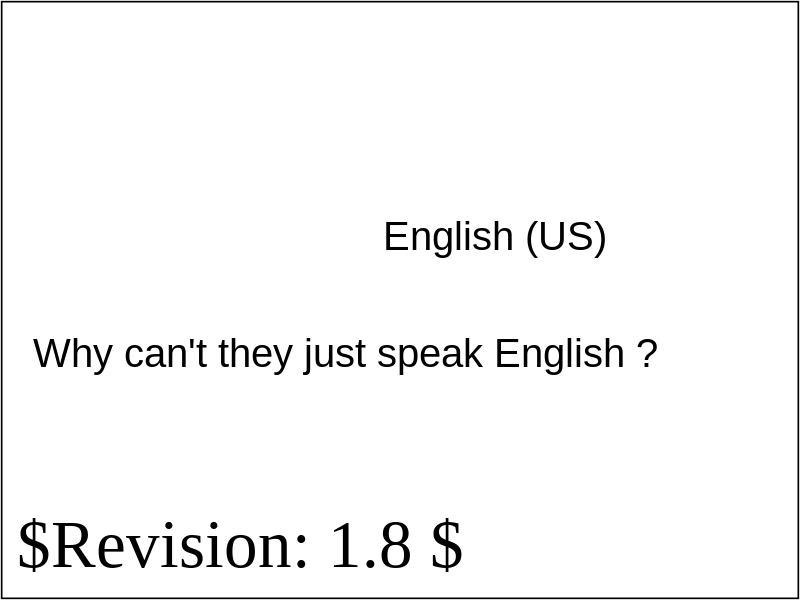
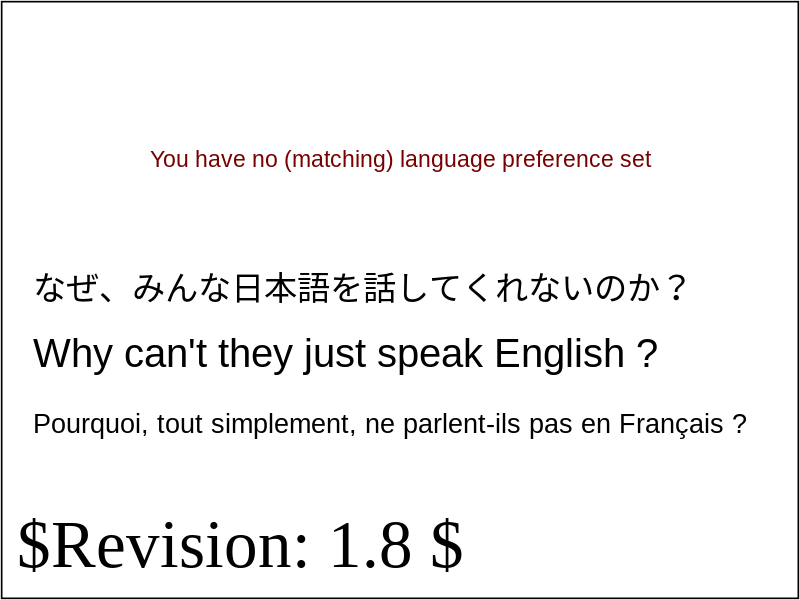
Fix SVG systemLanguage conditional processing
The algorithm that performs the test between browser language preference
and the systemLanguage value has been modified
to implement a language-tag match based on the prefix,
making it consistent with BCP 47's basic filter operation and
as specified in the SVG 1.1 spec.

The previous behavior was:

- Tests whether the value of the attribute (e.g., "en-us") is a prefix
of the user preferred language (e.g., "en")
(which would evaluate to false)

The test was modified to compare in the opposite manner,
now user preferred language must be a prefix of the value.

- If the language tag length was not 2, the language tag
was not matched, (e.g. It did not match "en-us" to "en-us").
This check has been removed.

- The algorithm did not check for a trailing hyphen ("-").
We do not want langtag "it" matching langtag "ita",
but it is ok for "it" to match "it-it".
Now it does.

------------

The algorithm that performs the test between browser language preference
and the systemLanguage value has been modified
to implement a case insensitive language-tag match:

"en" matches "EN".

The previous behavior was case sensitive.

------------

Add Luca Di Domenico to AUTHORS

------------

Bug: 872378, 869440
Cq-Include-Trybots: luci.chromium.try:linux_layout_tests_slimming_paint_v2;master.tryserver.blink:linux_trusty_blink_rel
Commit-Queue: Fredrik Söderquist <fs@opera.com>
Cr-Commit-Position: refs/heads/master@{#587592}

diff --git a/.upstream-WebKit/LayoutTests/svg/dom/systemLanguage-langtag-match-prefix.html b/.upstream-WebKit/LayoutTests/svg/dom/systemLanguage-langtag-match-prefix.html
@@ -1,0 +1,34 @@
+<!DOCTYPE HTML>
+<title>The "systemLanguage" match the langtag of which the user's preferred language is prefix </title>
+<link rel="help" href="https://www.w3.org/TR/SVG2/struct.html#ConditionalProcessingSystemLanguageAttribute">
+<script src="../../resources/testharness.js"></script>
+<script src="../../resources/testharnessreport.js"></script>
+<svg id="mysvg">
+</svg>
+<script>
+test(() => {
+
+	internals.setUserPreferredLanguages(["en"]);
+
+	var text1 = document.createElementNS('http://www.w3.org/2000/svg', 'text');
+	text1.setAttribute('systemLanguage', 'en-US');
+	text1.textContent = 'English-US';
+
+	var mysvg = document.getElementById("mysvg");
+	mysvg.appendChild(text1);
+
+	assert_greater_than(text1.getBoundingClientRect().width, 0);
+
+	internals.setUserPreferredLanguages(["it"]);
+
+	mysvg.removeChild(text1);
+
+	text1.setAttribute('systemLanguage', 'ita');
+
+	mysvg.appendChild(text1);
+
+	assert_equals(text1.getBoundingClientRect().width, 0);
+
+});
+
+</script>

diff --git a/.upstream-WebKit/LayoutTests/svg/dom/systemLanguage-case-insensitive.html b/.upstream-WebKit/LayoutTests/svg/dom/systemLanguage-case-insensitive.html
@@ -1,0 +1,31 @@
+<!DOCTYPE HTML>
+<title>The "systemLanguage" attribute matching is case insensitive (eg. "en" matches "EN")</title>
+<link rel="help" href="https://www.w3.org/TR/SVG2/struct.html#ConditionalProcessingSystemLanguageAttribute">
+<script src="../../resources/testharness.js"></script>
+<script src="../../resources/testharnessreport.js"></script>
+<svg id="mysvg">
+</svg>
+<script>
+test(() => {
+
+	internals.setUserPreferredLanguages(["en"]);
+	var text1 = document.createElementNS('http://www.w3.org/2000/svg', 'text');
+	text1.setAttribute('systemLanguage', 'en');
+	text1.textContent = 'English-US';
+
+	var mysvg = document.getElementById("mysvg");
+	mysvg.appendChild(text1);
+
+	assert_greater_than(text1.getBoundingClientRect().width, 0);
+
+	mysvg.removeChild(text1);
+
+	text1.setAttribute('systemLanguage', 'EN');
+
+	mysvg.appendChild(text1);
+
+	assert_greater_than(text1.getBoundingClientRect().width, 0);
+
+});
+
+</script>

diff --git a/renderer/core/svg/svg_tests.cc b/renderer/core/svg/svg_tests.cc
@@ -53,11 +53,18 @@ SVGStringListTearOff* SVGTests::systemLanguage() {
   return system_language_->TearOff();
 }
 
+static bool IsLangTagPrefix(const String& lang_tag, const String& language) {
+  if (!lang_tag.StartsWithIgnoringASCIICase(language))
+    return false;
+  return lang_tag.length() == language.length() ||
+         lang_tag[language.length()] == '-';
+}
+
 bool SVGTests::IsValid() const {
   if (system_language_->IsSpecified()) {
     bool match_found = false;
-    for (const auto& value : system_language_->Value()->Values()) {
-      if (value.length() == 2 && DefaultLanguage().StartsWith(value)) {
+    for (const auto& lang_tag : system_language_->Value()->Values()) {
+      if (IsLangTagPrefix(lang_tag, DefaultLanguage())) {
         match_found = true;
         break;
       }
